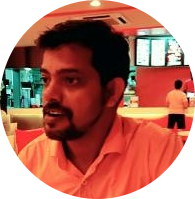
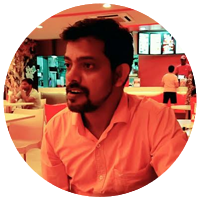
profile image

diff --git a/index.html b/index.html
@@ -24,7 +24,7 @@
 				<!-- Header -->
 					<header id="header">
 						
-                        <span class="avatar"><img src="assets/images/varghese1.png" alt="" /></span>
+                        <span class="avatar"><img width=200 src="assets/images/varghese.png" alt="" /></span>
 						<h1>Varghese Thomas</h1>
 <h2>Drupal Consultant</h2>
 						<nav>
